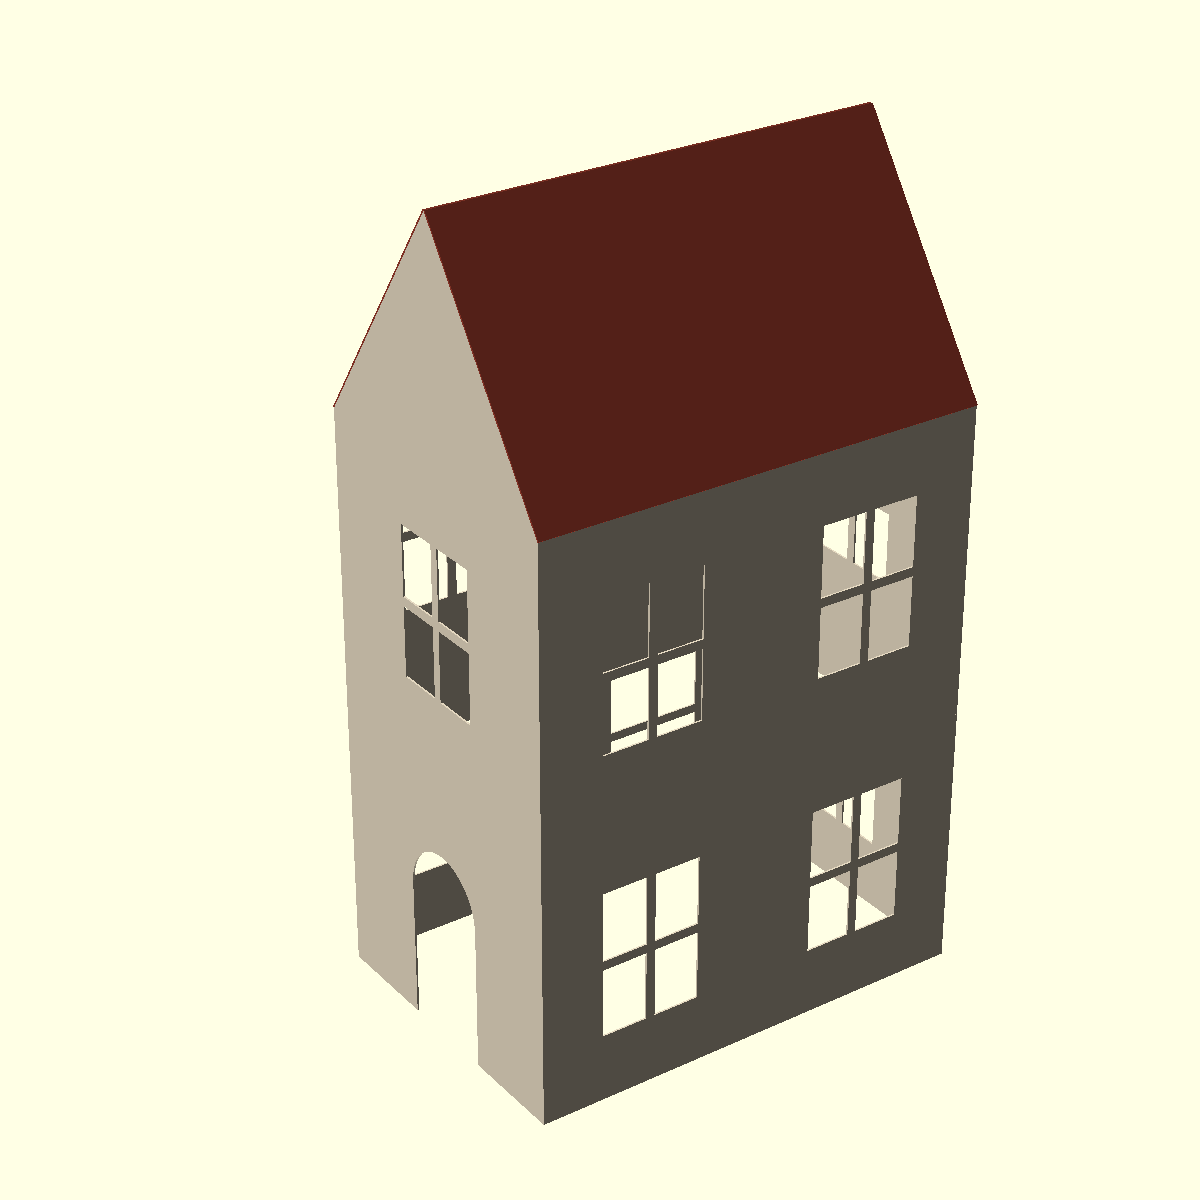
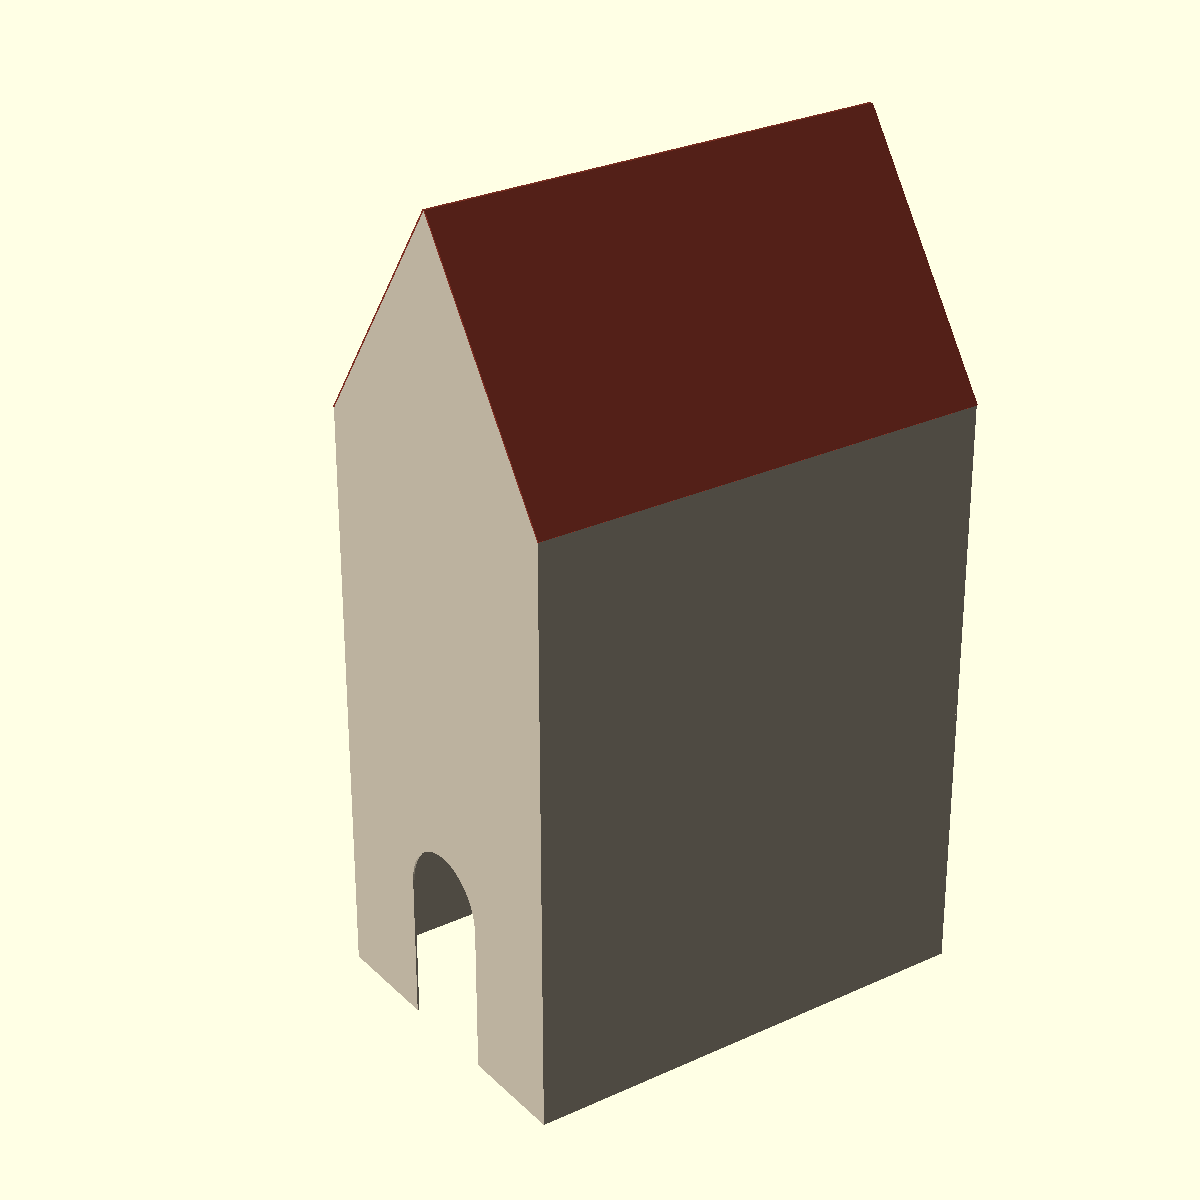
Paper fold house 2: remove the windows
Plain walls; only the door in wall 0 and the logo in the gable of wall 2
remain. The window parameters, asserts and the logo fallback are gone.

diff --git a/projects/papercut_fold_house2/readme.md b/projects/papercut_fold_house2/readme.md
@@ -34,9 +34,7 @@
 | `house_depth` | 55 | Gable walls |
 | `wall_height` | 100 | Bottom edge to eaves |
 | `roof_height` | 40 | Ridge above the eaves |
-| `floors`, `windows_per_floor` | 2, 2 | Window rows; windows per row on the long walls (gable walls: 1) |
-| `window_width`, `window_height`, `window_bar` | 18, 26, 1.6 | Four-pane window |
-| `door_width`, `door_height` | 18, 34 | Arched door, replaces the ground-floor window of wall 0 |
+| `door_width`, `door_height` | 18, 34 | Arched door in wall 0 |
 | `glue_tab` | 7 | Tab width; roof side tabs get narrower on steep, short roofs |
 | `fold_slit_width`, `fold_dash_length`, `fold_dash_gap` | 0.45, 2.6, 2 | Perforation slits along the folds |
 | `sheet_width`, `sheet_height`, `sheet_margin` | 297, 210, 5 | A4 landscape; fit check in the console, outline in the flat preview |
@@ -47,8 +45,7 @@
 - At the defaults, about 45 mm of A4 height is still free: raise `wall_height` up to ~145 for a taller house.
 - The top face of the template becomes the outside of the house. Cut it face up.
 - Folds are cut as dashed slits (perforations), not separate score lines; the net stays one piece.
-- The VeryOS logo is a dashed engraving, high in the gable of wall 2. It is left out (console message) if it has no room above the top windows.
-- Windows keep `glue_tab + 3` mm from the ends of the long walls (the corner tab glues there).
+- The VeryOS logo is a dashed engraving, high in the gable of wall 2, clear of the roof tabs glued inside.
 
 ## Export
 
